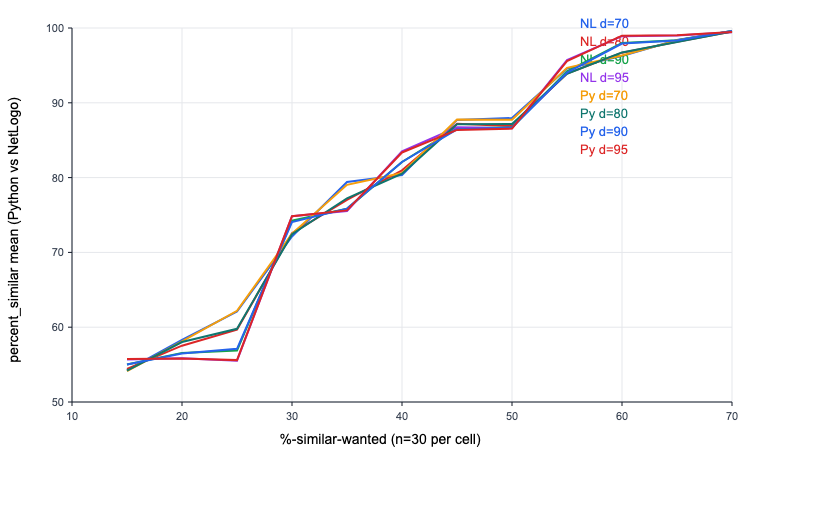
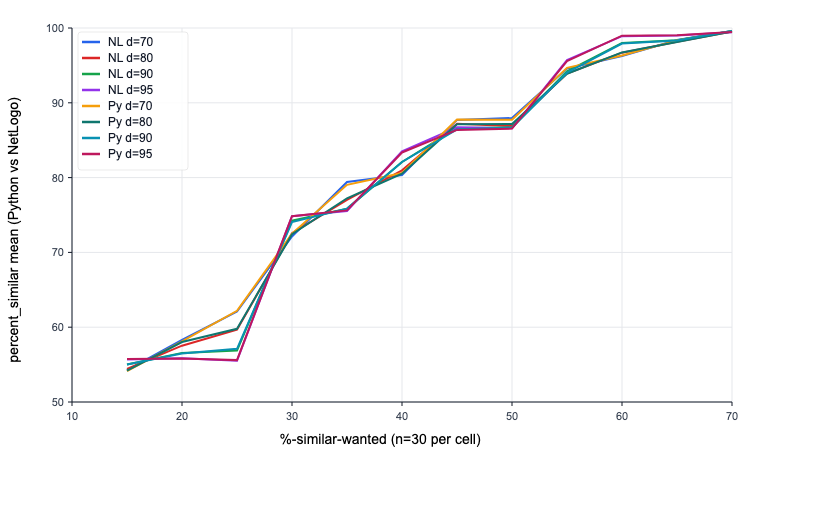
address PR #4 review: 12-colour palette + top-left legend box for crowded charts

diff --git a/experiments/plotting.py b/experiments/plotting.py
@@ -9,8 +9,14 @@ from collections import defaultdict
 from pathlib import Path
 
 
-# Small fixed colour set used for SVG line charts.
-SERIES_COLOURS = ("#2563eb", "#dc2626", "#16a34a", "#9333ea", "#f59e0b", "#0f766e")
+# Categorical colour set used for SVG line charts.  Twelve well-separated hues
+# so charts with up to a dozen series do not repeat colours; the first six are
+# the original report palette and the remaining six extend it for crowded plots
+# (e.g. the 8-series Python-vs-NetLogo across-density overlay).
+SERIES_COLOURS = (
+    "#2563eb", "#dc2626", "#16a34a", "#9333ea", "#f59e0b", "#0f766e",
+    "#0891b2", "#be185d", "#65a30d", "#b45309", "#4338ca", "#9f1239",
+)
 
 # Light grey used for axis grid lines drawn behind data series.
 GRID_COLOUR = "#e5e7eb"
@@ -189,15 +195,43 @@ def write_svg_line_chart(
         f'font-family="Arial" font-size="14">{y_label}</text>'
     )
 
-    for index, (label, points) in enumerate(sorted(series.items())):
+    # Draw the data series.  Colour cycles through SERIES_COLOURS in label-sort
+    # order so series are visually stable across re-renders.
+    sorted_items = sorted(series.items())
+    for index, (label, points) in enumerate(sorted_items):
         colour = SERIES_COLOURS[index % len(SERIES_COLOURS)]
         path = " ".join(f"{sx(x):.2f},{sy(y):.2f}" for x, y in points)
         lines.append(f'<polyline points="{path}" fill="none" stroke="{colour}" stroke-width="2"/>')
-        legend_y = margin_top + 18 * index
+
+    # Render a legend box in the top-left corner where Schelling-style curves
+    # leave whitespace.  Width is sized to the longest label so the box does
+    # not clip; line-height keeps swatches and text aligned.
+    legend_x = margin_left + 10
+    legend_top = margin_top + 8
+    line_height = 16
+    swatch_length = 18
+    text_offset = 26
+    longest_label = max((len(label) for label in series.keys()), default=8)
+    legend_width = max(110, longest_label * 7 + text_offset + 12)
+    legend_height = line_height * len(sorted_items) + 10
+    lines.append(
+        f'<rect x="{legend_x - 4}" y="{legend_top - 4}" '
+        f'width="{legend_width}" height="{legend_height}" '
+        f'fill="white" fill-opacity="0.85" stroke="#d4d4d4" stroke-width="0.5" rx="3"/>'
+    )
+    for index, (label, _points) in enumerate(sorted_items):
+        colour = SERIES_COLOURS[index % len(SERIES_COLOURS)]
+        swatch_y = legend_top + 6 + line_height * index
+        text_y = swatch_y + 4
         lines.append(
-            f'<text x="{width - 180}" y="{legend_y}" font-family="Arial" '
-            f'font-size="13" fill="{colour}">{label}</text>'
+            f'<line x1="{legend_x}" y1="{swatch_y}" x2="{legend_x + swatch_length}" '
+            f'y2="{swatch_y}" stroke="{colour}" stroke-width="2.5"/>'
         )
+        lines.append(
+            f'<text x="{legend_x + text_offset}" y="{text_y}" '
+            f'font-family="Arial" font-size="12" fill="#111827">{label}</text>'
+        )
+
     lines.append("</svg>")
 
     output_path.parent.mkdir(parents=True, exist_ok=True)
